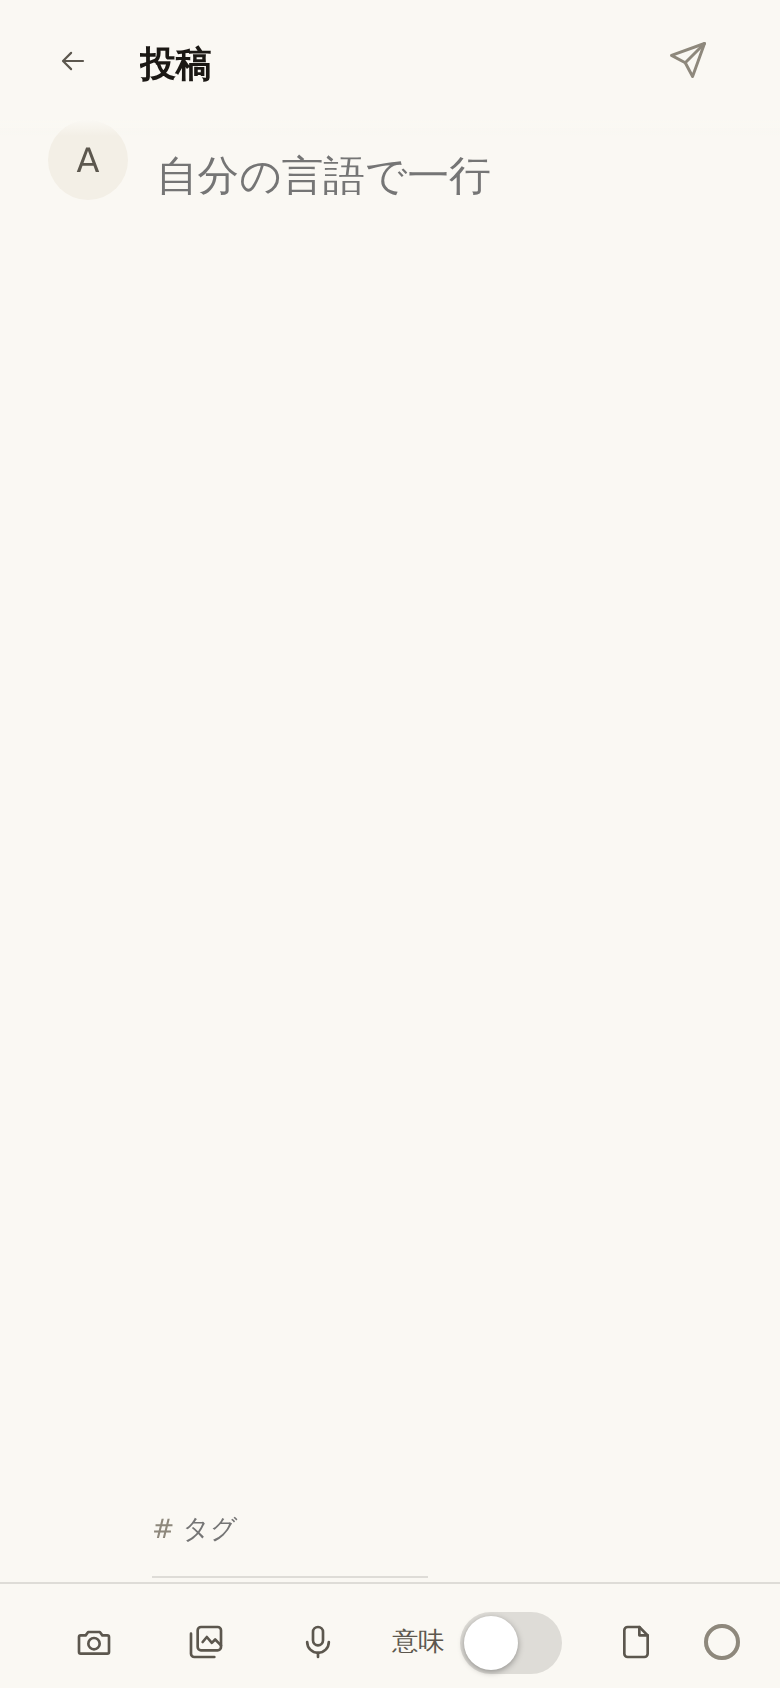
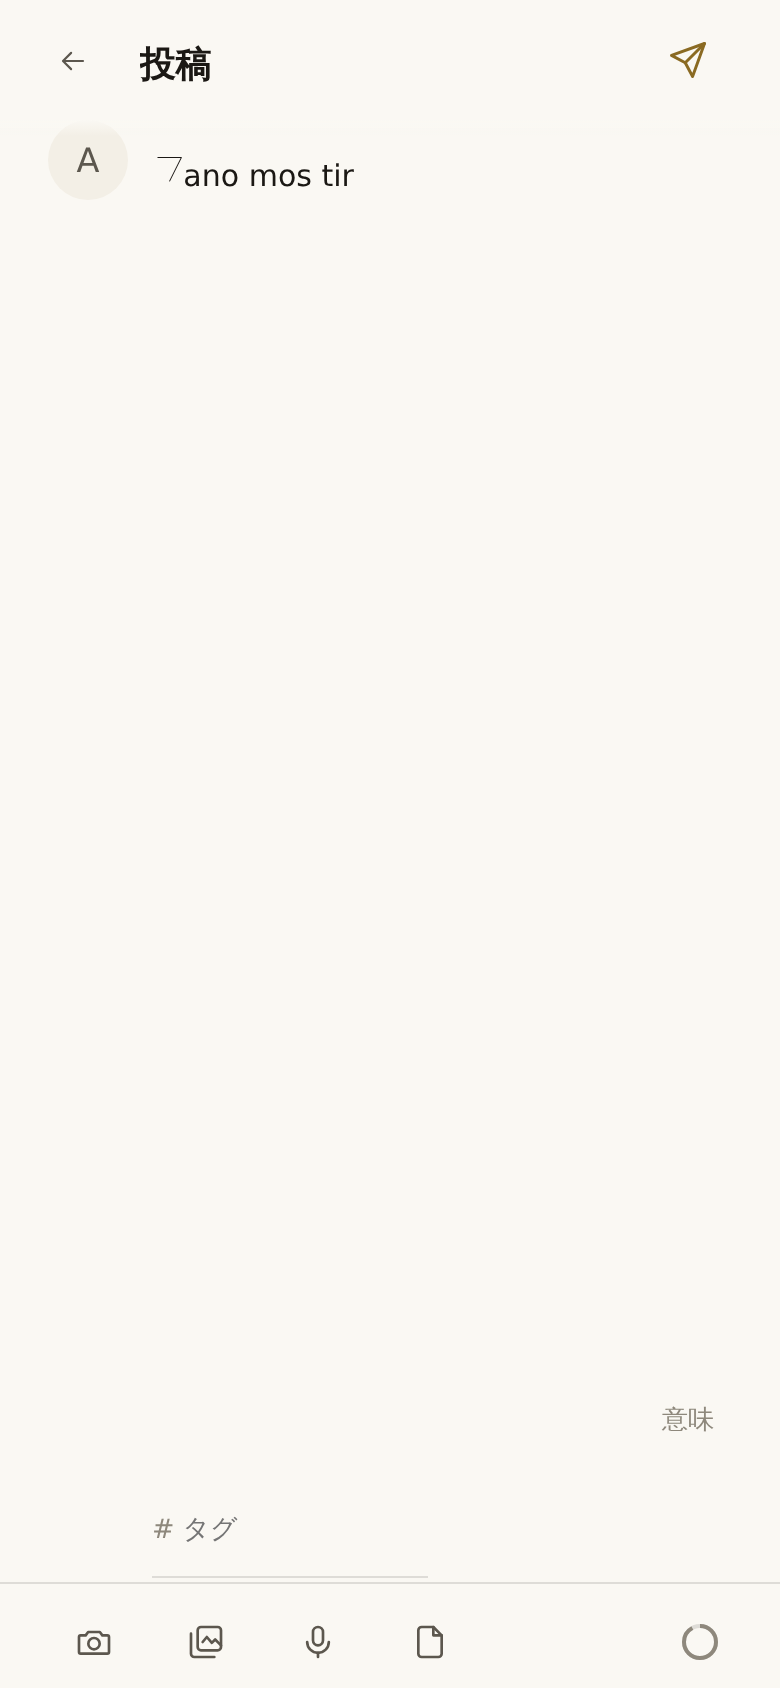
直し: 意味の切り替えが投稿画面の帯を画面の外へ押していた ── 帯から出し、意味の欄の頭の行に一語で（r94 E1）
測った: 帯は 320 の電話で何も足さずに 320/320 ちょうど、語と切り替えで 411/390、語だけでも
348/320。行に移して 390・320 とも on/off で収まる。語は post.mn.sw（短い一語、10 言語）、
オンは金・オフは灰。tl-check 15 に帯の幅を足し、帯に戻して赤（422/390）を見た。写真を撮り直し。

Claude-Session: https://claude.ai/code/session_01Gukng3S1prU5BZkiGHqp56

diff --git a/www/post.js b/www/post.js
@@ -1199,12 +1199,6 @@ function pwAddHTML(){
             esc(t('post.lib'))+'">'+ICON_LIB+'</button>'
         : '')+
       pwVoAddHTML()+
-      /* AND THE MEANING, ON OR OFF (pwMnOff). A word and a switch, because
-         「意味」 has no mark every phone draws. Not on the day's prompt, and
-         not while a post that exists is edited -- that keeps what it has. */
-      ((PW.pr || PW.ed)? '' :
-        '<button class="pwmnsw" aria-pressed="'+(pwMnOff()? 'false' : 'true')+'"'+DO('pwMnSw')+'>'+
-          esc(t('post.mn'))+swtHTML(!pwMnOff())+'</button>')+
       /* Beside the microphone. The span is always here so pwSidePaint() has
          something to patch; it collapses only while a posted thing is being
          edited, which is the one state drafts have nothing to do with. */
@@ -1717,6 +1711,17 @@ function pwHTML(){
       /* The same ceiling as the line and refused in the same place, which is
          the press. Nothing here either: postCap() is asked once, in pwSend(),
          about both rows. */
+      /* AND THE SWITCH FOR IT, on a row of its own where the meaning starts,
+         and staying there when the field goes (pwMnOff). The word, because
+         「意味」 has no mark every phone draws, in the colour of what is on
+         while it is on. Not in the bar under the field: that bar is exactly
+         full on a 320 phone with nothing added (measured 320/320), and the
+         switch in it pushed the last ring off -- 411/390 as a word and a
+         switch, 348/320 as the word alone. Not on the day's prompt, and not
+         while a post that exists is edited -- that keeps what it has. */
+      ((PW.pr || PW.ed)? '' :
+        '<div class="pwmnrow"><button class="pwmnsw'+(pwMnOff()? '' : ' on')+'" aria-pressed="'+
+          (pwMnOff()? 'false' : 'true')+'"'+DO('pwMnSw')+'>'+esc(t('post.mn.sw'))+'</button></div>')+
       /* Not there at all while the meaning is switched off (pwMnOff): the
          screen is the line and nothing under it, which is a post anywhere
          else. What was typed into it stays in PW.mn and comes back with the

diff --git a/www/index.html b/www/index.html
@@ -1547,10 +1547,12 @@ html.fitlock, html.fitlock body{height:100%;overflow:hidden;overscroll-behavior:
 /* 輪が二つ並ぶので、この器が間を持ちます ── 「左側本文の輪右が翻訳の輪」
    OWNER 2026-09-15。一つしか無い段（お題の意味は readonly）でも、無い段
    （plus は天井が無いので輪も無い）でも、同じ一行で正しく出ます。 */
-/* The meaning, on or off (www/post.js § pwMnOff): the word and the switch,
-   no box. */
-.pwmnsw{flex:0 0 auto;display:inline-flex;align-items:center;gap:8px;min-height:44px;
-        padding:0 4px;background:none;border:0;font-size:.82rem;color:var(--txs)}
+/* The meaning, on or off (www/post.js § pwMnOff): the word, gold while it is
+   on and grey while it is off, no box. */
+.pwmnrow{display:flex;justify-content:flex-end}
+.pwmnsw{min-width:44px;min-height:44px;padding:0 4px;background:none;
+        border:0;font-size:.82rem;color:var(--txm)}
+.pwmnsw.on{color:var(--gold)}
 .pwbleft{margin-left:auto;padding-right:6px;font-size:.82rem;color:var(--txm);
          display:inline-flex;align-items:center;gap:14px}
 /* ---------- the letters ----------

diff --git a/www/i18n/ru.js b/www/i18n/ru.js
@@ -460,6 +460,7 @@ defLang('ru', (function(){
       "post.none"       : "Нечего публиковать",
       "post.del"        : "Удалить",
       "post.del.q"      : "Удалить эту запись?",
+      "post.mn.sw"      : "Смысл",
       "post.repost"     : "Репост",
       "post.quote"      : "Цитировать",
       "post.quote.gone" : "Эта запись недоступна.",

diff --git a/www/i18n/pt.js b/www/i18n/pt.js
@@ -464,6 +464,7 @@ defLang('pt', (function(){
       "post.none"       : "Não há nada para publicar",
       "post.del"        : "Eliminar",
       "post.del.q"      : "Eliminar esta publicação?",
+      "post.mn.sw"      : "Sentido",
       "post.repost"     : "Republicar",
       "post.quote"      : "Citar",
       "post.quote.gone" : "Esta publicação não está disponível.",

diff --git a/www/i18n/ko.js b/www/i18n/ko.js
@@ -636,6 +636,7 @@ defLang('ko', (function(){
       "post.none"       : "올릴 것이 없습니다",
       "post.del"        : "삭제",
       "post.del.q"      : "이 글을 삭제할까요?",
+      "post.mn.sw"      : "의미",
       "post.repost"     : "리포스트",
       "post.quote"      : "인용",
       "post.quote.gone" : "이 글은 표시할 수 없습니다.",

diff --git a/www/i18n/ja.js b/www/i18n/ja.js
@@ -373,6 +373,7 @@ defLang('ja', (function(){
       'post.none'       : '書いてください',
       'post.del'        : '削除',
       'post.del.q'      : 'この投稿を消しますか？',
+      'post.mn.sw'      : '意味',
       'post.repost'     : 'リポスト',
       'post.quote'      : '引用',
       'post.quote.gone' : 'この投稿は表示できません',

diff --git a/www/i18n/es.js b/www/i18n/es.js
@@ -417,6 +417,7 @@ defLang('es', (function(){
       "post.none"       : "No hay nada que publicar",
       "post.del"        : "Eliminar",
       "post.del.q"      : "¿Eliminar esta entrada?",
+      "post.mn.sw"      : "Sentido",
       "post.repost"     : "Republicar",
       "post.quote"      : "Citar",
       "post.quote.gone" : "Esta publicación no está disponible.",

diff --git a/www/i18n/de.js b/www/i18n/de.js
@@ -445,6 +445,7 @@ defLang('de', (function(){
       "post.none"       : "Nichts zu senden",
       "post.del"        : "Löschen",
       "post.del.q"      : "Diesen Beitrag löschen?",
+      "post.mn.sw"      : "Sinn",
       "post.repost"     : "Teilen",
       "post.quote"      : "Zitieren",
       "post.quote.gone" : "Dieser Beitrag ist nicht verfügbar.",

diff --git a/www/i18n/it.js b/www/i18n/it.js
@@ -457,6 +457,7 @@ defLang('it', (function(){
       "post.none"       : "Niente da pubblicare",
       "post.del"        : "Elimina",
       "post.del.q"      : "Eliminare questo post?",
+      "post.mn.sw"      : "Senso",
       "post.repost"     : "Ripubblica",
       "post.quote"      : "Cita",
       "post.quote.gone" : "Questo post non è disponibile.",

diff --git a/www/i18n/fr.js b/www/i18n/fr.js
@@ -505,6 +505,7 @@ defLang('fr', (function(){
       "post.none"       : "Rien à publier",
       "post.del"        : "Supprimer",
       "post.del.q"      : "Supprimer ce message ?",
+      "post.mn.sw"      : "Sens",
       "post.repost"     : "Republier",
       "post.quote"      : "Citer",
       "post.quote.gone" : "Ce message n’est pas disponible.",

diff --git a/www/i18n/zh.js b/www/i18n/zh.js
@@ -465,6 +465,7 @@ defLang('zh', (function(){
       "post.none"       : "没有可发布的内容",
       "post.del"        : "删除",
       "post.del.q"      : "删除这条帖子？",
+      "post.mn.sw"      : "意思",
       "post.repost"     : "转发",
       "post.quote"      : "引用",
       "post.quote.gone" : "无法显示这条帖子。",

diff --git a/www/i18n/en.js b/www/i18n/en.js
@@ -360,6 +360,7 @@ defLang('en', (function(){
       'post.none'       : 'Nothing to post',
       'post.del'        : 'Delete',
       'post.del.q'      : 'Delete this post?',
+      'post.mn.sw'      : 'Meaning',
       'post.repost'     : 'Repost',
       'post.quote'      : 'Quote',
       'post.quote.gone' : 'This post is unavailable.',
